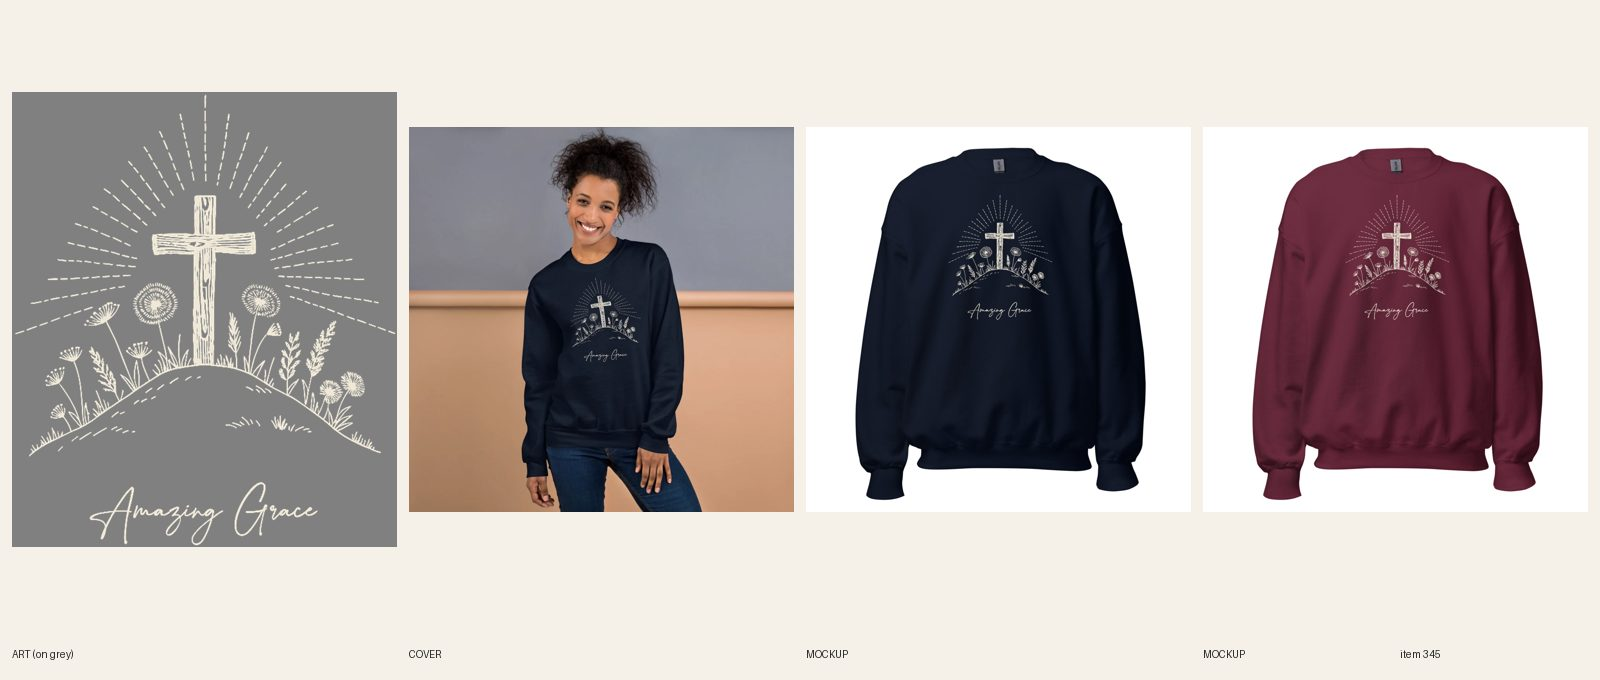
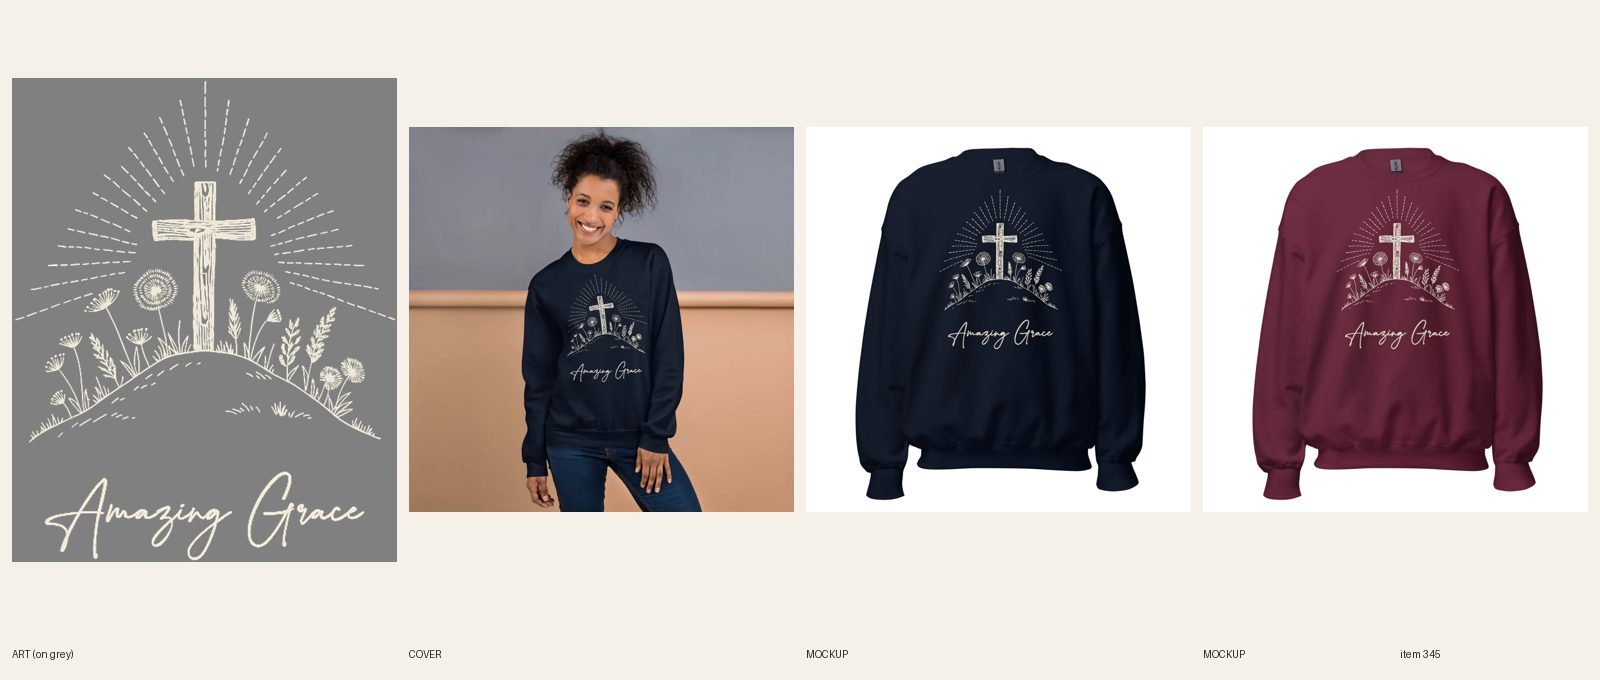
[A] review 345 Women's Amazing Grace crewneck (redo)
Claude-Session: https://claude.ai/code/session_01RNDFUWvwzodTZW3k4ta5tF

diff --git a/docs/intake-log.md b/docs/intake-log.md
@@ -1,4 +1,5 @@
 RUNNING lane A since 2026-10-17 06:57 UTC
+2026-10-17 07:02 UTC — [A] REVIEW #345 amazing grace crewneck (REDO: FW 1800, script scaled 1.4x, new mockups + temp cover)
 2026-10-17 06:46 UTC — [B] Builder run summary (temp-cover mode, no fal calls): REVIEW: #350 Slurp Responsibly, #351 Sore Since 1987, #352 Retired From Cardio crewnecks (REDO: relinked FW 1650, new mockups + temp covers; #351 Navy art rebuilt as a composite so the figure's linework shows, #352 Barbell Club script thickened). #354 Lake Life zip stays REDO, cover: pending (Printful has no two-person view for #692; proposed Ash + Carolina Blue). ART-NEXT Shopify drafts (no art/sync): #356-#367 (12 items; #357 flower launched Black + Military Green because Peach exists only in XL on Printful 7502). Print files for navy fixes are staged on branch art-staging (art/351navy.png, art/352navy.png). Lock released.
 2026-10-17 06:43 UTC — [H] Helper run: Telegram inbox empty (getUpdates returned nothing, nothing to consume). Audit (298 live): 91 errors, 90 price (builders' job), 1 hoodie in the Thanksgiving Sweatshirts collection (outside the helper's fix list, sent to docs/inbox.md). Warnings left alone. No scripted meta/SEO errors (those are warnings only). Category backfill: 0 products without a category. Site freshness: unisex-christmas-ski-lodge-hoodie, womens-bookish-plot-twist-hoodie, mens-gym-leg-day-survivor-heavyweight-hoodie all 200. Stuck check: none (no BUILDING items; [A] last 06:22, [B] 06:40, [D] 06:21). Announcement bar unchanged (price errors not zero). npm ci run to get esbuild. Daily summary not due (next after 12:00 UTC). Lock released.
 2026-10-17 06:46 UTC — [B] ART-NEXT #361 mens-grandpa-i-fix-things-after-naps-crewneck-sweatshirt (Shopify draft, no art yet)

diff --git a/docs/pipeline/345-christian-crewneck-amazing-grace.md b/docs/pipeline/345-christian-crewneck-amazing-grace.md
@@ -1,4 +1,4 @@
-status: REDO
+status: REVIEW
 lane: A
 type: twin
 id: 345
@@ -27,3 +27,4 @@ kd: 49
 - 2026-10-17 06:13 UTC director: REDO (stays DRAFT, no fal needed).
   1. R5.3.2: the print sits at about a third of the crewneck's width and the "Amazing Grace" script needs a squint on the Navy mockup at phone size. Re-link at FW 1800 (no pouch on a crewneck); if the script still reads thin, scale the script line up about 1.4x in print-prep (it is the hymn line, it must read from across the room) and keep the cross art as is.
   2. Navy + Maroon is the right call (cream vanishes on Sand); keep it. New mockups, variant images and temp cover from the new file, then REVIEW.
+- 2026-10-17 07:02 UTC [A]: REDO fixed (no fal). Print file rebuilt in print-prep: hymn script line scaled 1.4x and thickened, cross art unchanged; 3600x4522, Printful file 1088083578 (hosted lane-a-files f/345b.png), linked at FW=1800 TOP=0, sync 11/11. New Navy + Maroon mockups and back replaced on the DRAFT, variant images re-attached, temp cover re-made from the new file (Printful Women's Lifestyle 1186, Navy). Phone-size read: script legible. Sheet docs/review/345.jpg. REVIEW.
